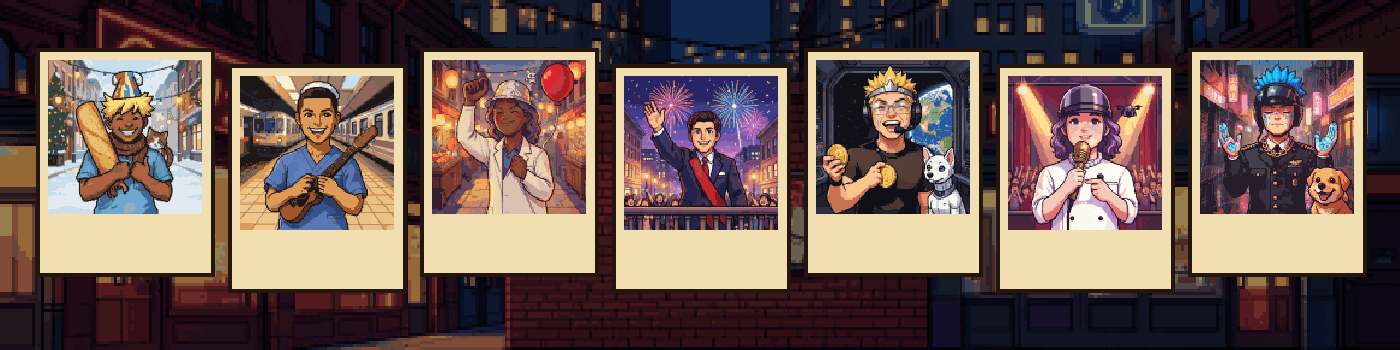
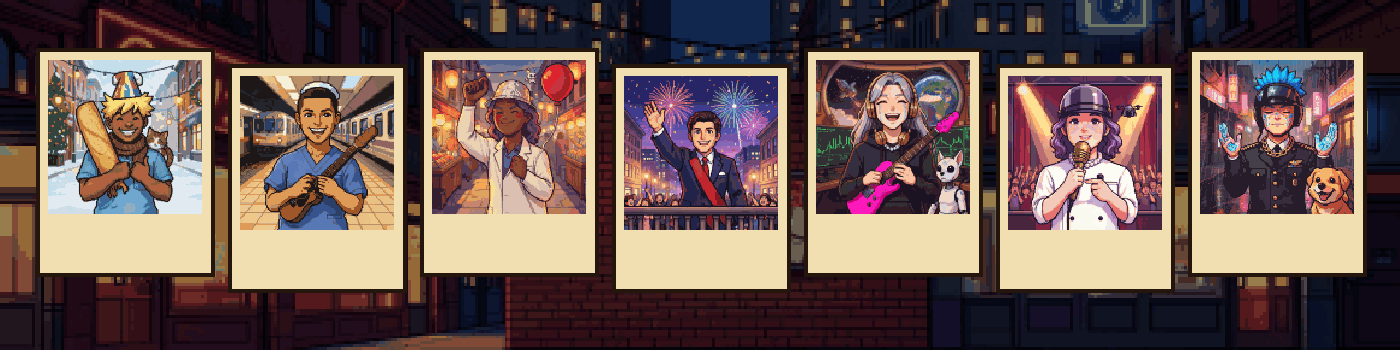
Epic card: #141 (clean hands) instead of #193

Changed region(s): [[0.5836, 0.1714, 0.7064, 0.6286]]

diff --git a/worker/public/index.html b/worker/public/index.html
@@ -170,7 +170,7 @@
         </article>
         <article class="card c-epic reveal">
           <h3>Epic</h3>
-          <img src="/art/card-epic.png" alt="An epic streamer wayfarer with gold coins and a robot dog" width="512" height="512" loading="lazy">
+          <img src="/art/card-epic.png" alt="An epic crypto trader wayfarer playing a pink guitar with a robot dog" width="512" height="512" loading="lazy">
           <p class="odds">40 of 1,000</p>
           <p>Streamers, crypto traders, astronauts. Robot dogs.</p>
         </article>
